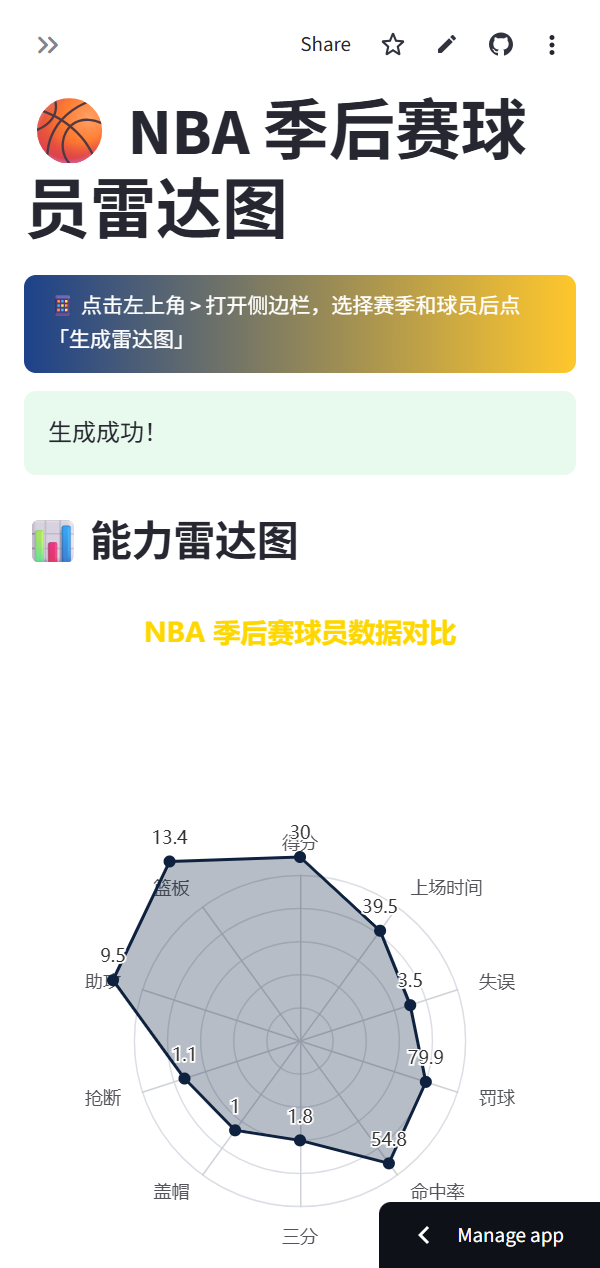
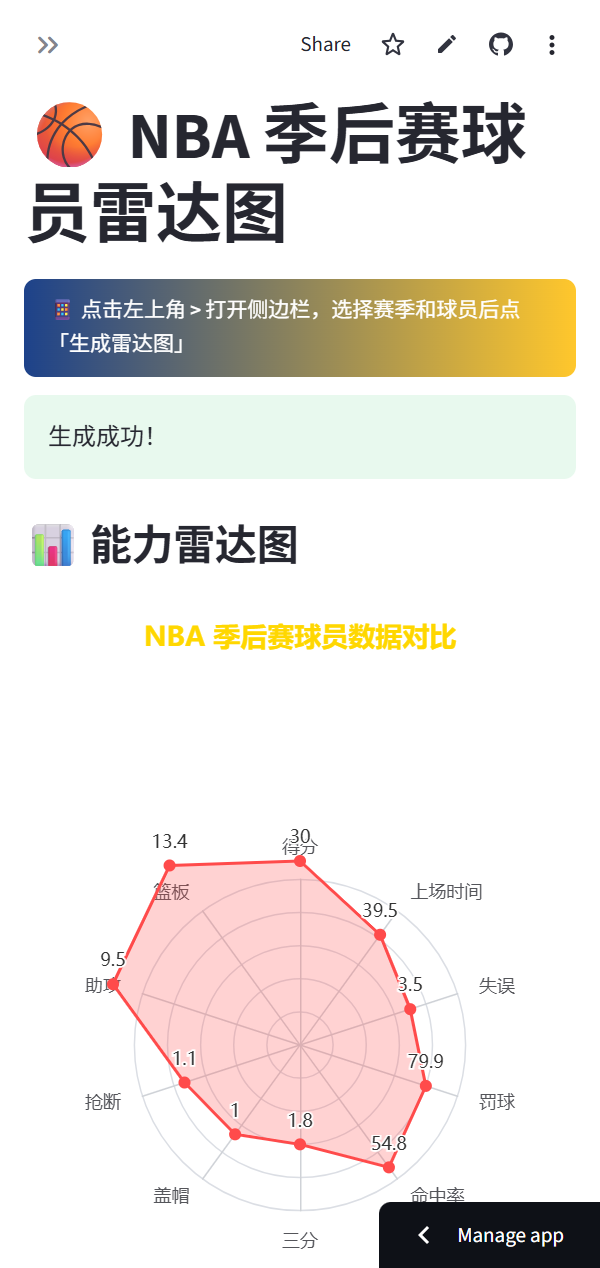
little patch (3)

diff --git a/README.md b/README.md
@@ -17,8 +17,8 @@
 
 ## 🖼 效果预览
 
-<img src="screenshot-pc.png" alt="电脑端界面预览" style="height: 400px;" />
-<img src="screenshot-mobile.png" alt="手机端界面预览" style="height: 400px;" />
+<img src="screenshot-pc.png" alt="电脑端界面预览" style="height: 300px;" />
+<img src="screenshot-mobile.png" alt="手机端界面预览" style="height: 300px;" />
 
 ## 🚀 使用说明
 
